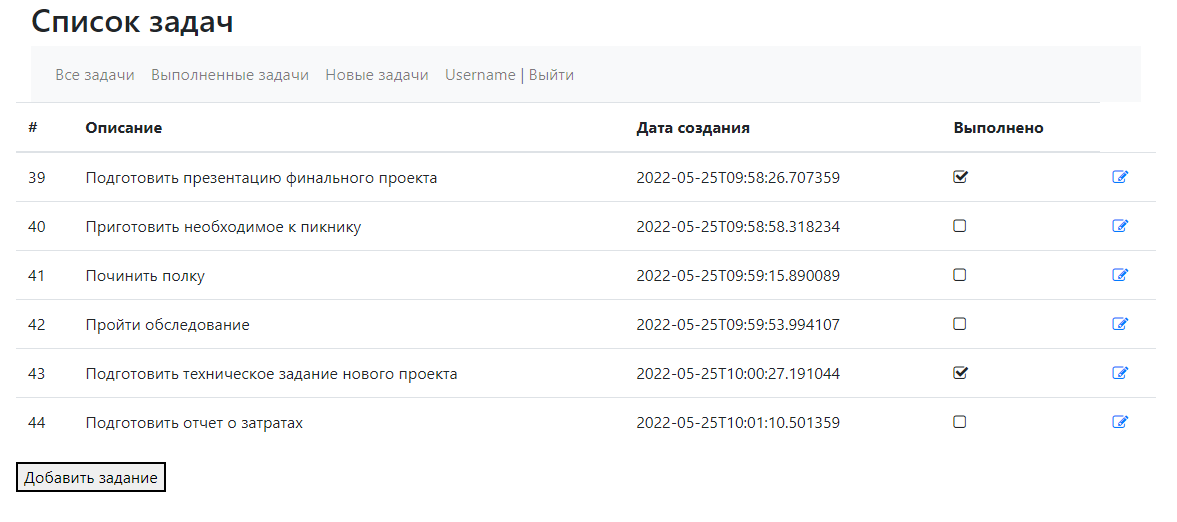
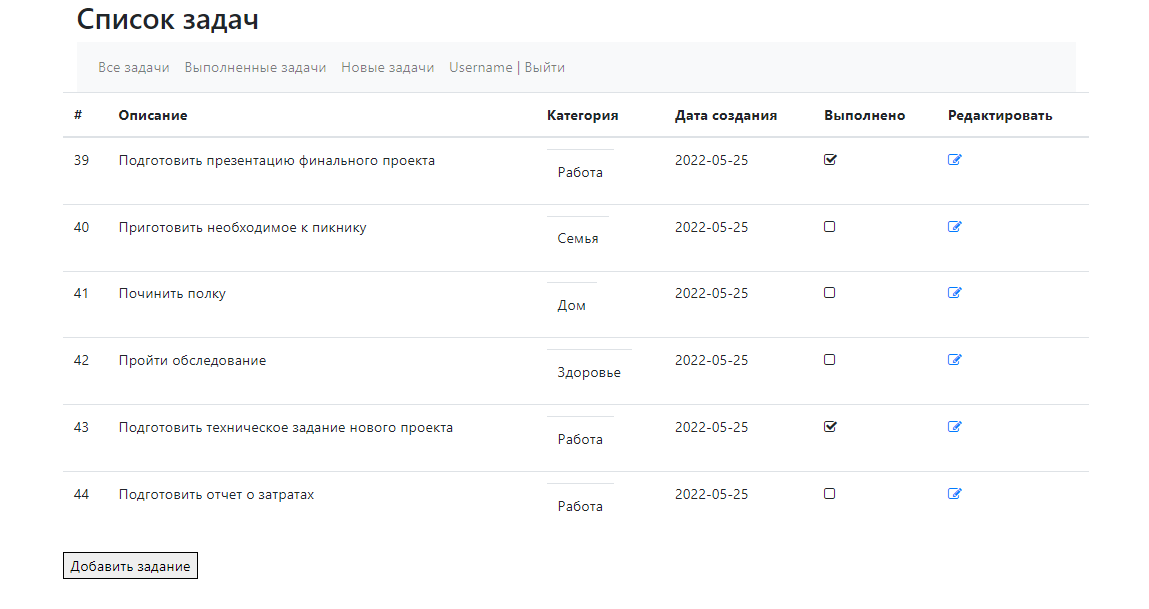
4. Категории в TODO List [#331991 #303163] added categories view

diff --git a/src/main/resources/templates/tasks.html b/src/main/resources/templates/tasks.html
@@ -46,14 +46,23 @@
             <tr>
                 <th scope="col">#</th>
                 <th scope="col">Описание</th>
+                <th scope="col">Категория</th>
                 <th scope="col">Дата создания</th>
                 <th scope="col">Выполнено</th>
+                <th scope="col">Редактировать</th>
             </tr>
             </thead>
             <tbody>
             <tr th:each="item: ${items}">
                 <td th:text="${item.id}"></td>
                 <td th:text="${item.description}"></td>
+                <td>
+                    <table>
+                        <tr th:each="category: ${item.categories}">
+                            <td th:text="${category.name}"></td>
+                        </tr>
+                    </table>
+                </td>
                 <td th:text="${item.created}"></td>
                 <td>
                     <span th:if="${item.done}">

diff --git a/src/main/java/ru/job4j/todo/store/ItemStore.java b/src/main/java/ru/job4j/todo/store/ItemStore.java
@@ -43,10 +43,10 @@ public class ItemStore {
         );
     }
 
-    public List<Item> getAllItems(User user) {
+    public List<Item> getAllItemsOfUser(User user) {
         return this.tx(
-                session -> session.createQuery("from ru.job4j.todo.model.Item "
-                                + "where user_id = :userId ORDER BY id")
+                session -> session.createQuery("SELECT DISTINCT i FROM ru.job4j.todo.model.Item i"
+                                + " JOIN FETCH i.categories where user_id = :userId ORDER BY i.id")
                         .setParameter("userId", user.getId())
                         .list()
         );

diff --git a/src/main/java/ru/job4j/todo/controller/ItemController.java b/src/main/java/ru/job4j/todo/controller/ItemController.java
@@ -10,7 +10,6 @@ import ru.job4j.todo.service.CategoryService;
 import ru.job4j.todo.service.ItemService;
 
 import javax.servlet.http.HttpSession;
-import java.util.List;
 import java.util.Set;
 
 @Controller
@@ -29,6 +28,7 @@ public class ItemController {
         User user = (User) session.getAttribute("user");
         model.addAttribute("user", user);
         model.addAttribute("items", itemService.getAllItems(user));
+        model.addAttribute("categories", categoryService.getAllCategories());
         return "tasks";
     }
 

diff --git a/src/main/java/ru/job4j/todo/model/Item.java b/src/main/java/ru/job4j/todo/model/Item.java
@@ -97,10 +97,15 @@ public class Item {
 
     @Override
     public String toString() {
+        String result = "";
+        for (Category category : categories) {
+            result += category.getName() + " ";
+        }
         return "Item{"
                 + "id=" + id
                 + ", description='" + description
                 + '\''
+                + ", categories: [" + result + "]"
                 + ", created=" + created
                 + ", done=" + done
                 + '}';

diff --git a/src/main/java/ru/job4j/todo/service/ItemService.java b/src/main/java/ru/job4j/todo/service/ItemService.java
@@ -21,7 +21,7 @@ public class ItemService {
     }
 
     public List<Item> getAllItems(User user) {
-        return itemStore.getAllItems(user);
+        return itemStore.getAllItemsOfUser(user);
     }
 
     public Item findItemById(int id) {
